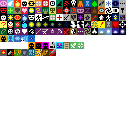
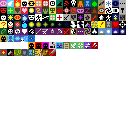
0.8.7.1更新预备

Changed region(s): [[0.6562, 0.3101, 0.7812, 0.4031]]

diff --git a/core/src/main/java/com/shatteredpixel/shatteredpixeldungeon/ui/changelist/mlpd/vM0_7_X_Changes.java b/core/src/main/java/com/shatteredpixel/shatteredpixeldungeon/ui/changelist/mlpd/vM0_7_X_Changes.java
@@ -140,14 +140,14 @@ public class vM0_7_X_Changes {
                 ("辉梦魔绫Eula协议已实装，进入即可阅览具体说明。")));
 
         changes.addButton(new ChangeButton(new Image("firebase/FireBase.png",0,0,16,16), ("FireBase游戏数据收集"),
-                ("收集一些基本游戏数据，供开发者日后通过数据分析，仅在安卓端有效。")));
+                ("收集一些基本游戏数据，供开发者日后通过数据分析，仅在安卓端有效。\n\n同时庆祝该一历史性时刻，0层商人领主处赠送时装自选凭证。")));
 
         changes = new ChangeInfo(Messages.get(ChangesScene.class, "buffs"), false, null);
         changes.hardlight(Window.GREEN_COLOR);
         changeInfos.add(changes);
 
         changes.addButton(new ChangeButton(new ItemSprite(ItemSpriteSheet.HIGHTWAND_1), "法杖加强",
-                "冲击：伤害成长由1-3上调至1.5-4\n\n腐化：腐化时长由6+等级*3上调为6+等级*4，使拥有精英buff的敌人可以被腐化而非定命\n\n解离：伤害成长由1-4上调至1-5，穿透固体方块的增伤需求由穿透3个加强为穿透2个，无视减伤\n\n焰浪：伤害成长由1*充能-2*充能上调至2*充能-3*充能\n\n磷火：高充能给予的残废与麻痹效果回合数增加1\n\n冰霜：伤害成长由1-5上调至1-6，至多衰减30%的伤害\n\n雷霆：伤害成长由1-5上调至1-6\n\n大雷：对自身的伤害降低至25%\n\n土块：伤害成长由1-2上调至1-3，守卫的生命值由16+8*等级上升为16+12*等级，守卫具有等同于法杖等级百分比的减伤\n\n魔弹：在释放魔弹法杖后，下一次非魔弹法杖释放不消耗回合，这个效果持续5回合\n\n棱光：伤害成长由1-3上调至1.5-4，对亡灵和恶魔的额外伤害上升为50%，+5及以上必定失明\n\n注魂：护盾量由5+等级上升为5+1.5*等级\n\n哨卫：伤害成长由1-4上调至2-5\n\n毒杖：和酸蚀一样会慢慢叠加伤害"));
+                "冲击：伤害成长由1-3上调至1.5-4\n\n腐化：腐化时长由6+等级*3上调为6+等级*4，使拥有精英buff的敌人可以被腐化而非定命\n\n解离：伤害成长由1-4上调至1-5，穿透固体方块的增伤需求由穿透3个加强为穿透2个，无视减伤\n\n焰浪：伤害成长由1*充能-2*充能上调至2*充能-3*充能\n\n磷火：高充能给予的残废与麻痹效果回合数增加1\n\n冰霜：伤害成长由1-5上调至1-6，至多衰减30%的伤害\n\n雷霆：伤害成长由1-5上调至1-6\n\n大雷：对自身的伤害降低至25%\n\n土块：伤害成长由1-2上调至1-3，守卫的生命值由16+8*等级上升为16+12*等级，守卫具有等同于法杖等级百分比的减伤\n\n魔弹：在释放魔弹法杖后，下一次非魔弹法杖释放不消耗回合，这个效果持续5回合\n\n棱光：伤害成长由1-3上调至1.5-4，对亡灵和恶魔的额外伤害上升为50%，+5及以上必定失明\n\n注魂：护盾量由5+等级上升为5+1.5*等级\n\n哨卫：伤害成长由1-4上调至2-5"));
 
         changes = new ChangeInfo(Messages.get(ChangesScene.class, "changes"), false, null);
         changes.hardlight(CharSprite.WARNING);
@@ -157,6 +157,14 @@ public class vM0_7_X_Changes {
                 "魔绫像素地牢-修复内容：\n\n" +
                         (       "_-_ 修复瓶装怨灵的闪退，以及优化该藏品\n" +
                                 "_-_ 修复武甲背包会被爆炸波及")));
+
+        changes = new ChangeInfo(Messages.get(ChangesScene.class, "nerfs"), false, null);
+        changes.hardlight(Window.R_COLOR);
+        changeInfos.add(changes);
+
+        changes.addButton( new ChangeButton(new BuffIcon(BuffIndicator.CORRUPT, true), "敌法精英",
+                "敌法精英拥有 25% 的伤害减免，且对于法术伤害拥有额外50%的伤害减免。"));
+
 
         changes = new ChangeInfo("v0.8.7.1中测验收通过，予以更新", true, null);
         changes.hardlight(Window.CYELLOW);

diff --git a/core/src/main/java/com/shatteredpixel/shatteredpixeldungeon/actors/hero/Hero.java b/core/src/main/java/com/shatteredpixel/shatteredpixeldungeon/actors/hero/Hero.java
@@ -114,6 +114,7 @@ import com.shatteredpixel.shatteredpixeldungeon.actors.buffs.Nyctophobia;
 import com.shatteredpixel.shatteredpixeldungeon.actors.buffs.Paralysis;
 import com.shatteredpixel.shatteredpixeldungeon.actors.buffs.PhysicalEmpower;
 import com.shatteredpixel.shatteredpixeldungeon.actors.buffs.Poison;
+import com.shatteredpixel.shatteredpixeldungeon.actors.buffs.PropBuff;
 import com.shatteredpixel.shatteredpixeldungeon.actors.buffs.Recharging;
 import com.shatteredpixel.shatteredpixeldungeon.actors.buffs.Regeneration;
 import com.shatteredpixel.shatteredpixeldungeon.actors.buffs.RoseShiled;
@@ -194,6 +195,7 @@ import com.shatteredpixel.shatteredpixeldungeon.items.props.EmotionalAggregation
 import com.shatteredpixel.shatteredpixeldungeon.items.props.HeartOfCrystalFractal;
 import com.shatteredpixel.shatteredpixeldungeon.items.props.Monocular;
 import com.shatteredpixel.shatteredpixeldungeon.items.props.PortableWhetstone;
+import com.shatteredpixel.shatteredpixeldungeon.items.props.Prop;
 import com.shatteredpixel.shatteredpixeldungeon.items.props.StarSachet;
 import com.shatteredpixel.shatteredpixeldungeon.items.props.TerrorDoll;
 import com.shatteredpixel.shatteredpixeldungeon.items.props.TerrorDollB;
@@ -639,9 +641,10 @@ public class Hero extends Char {
 			Buff.affect(this, QuestGold.class).set((100), 1);
 		}
 
-//		if (Dungeon.isChallenged(Challenges.BLOOD_DIED) && Dungeon.depth>2){
-//			Buff.affect(this, BloodLoss.class);
-//		}
+		ArrayList<Prop> AllProps = hero.belongings.getAllItems(Prop.class);
+		if(AllProps!=null){
+			Buff.affect(Dungeon.hero, PropBuff.class);
+		}
 
 		if(HelpSettings()) {
 			Buff.affect(this, GameTracker.class);

diff --git a/core/src/main/java/com/shatteredpixel/shatteredpixeldungeon/actors/buffs/AbundantMagic.java b/core/src/main/java/com/shatteredpixel/shatteredpixeldungeon/actors/buffs/AbundantMagic.java
@@ -1,53 +1,19 @@
 package com.shatteredpixel.shatteredpixeldungeon.actors.buffs;
 
-import static com.shatteredpixel.shatteredpixeldungeon.Dungeon.hero;
-
-import com.shatteredpixel.shatteredpixeldungeon.messages.Messages;
 import com.shatteredpixel.shatteredpixeldungeon.ui.BuffIndicator;
-import com.watabou.utils.Bundle;
 
-public class AbundantMagic extends Buff{
-
-    public float duration = 5f;
-
+public class AbundantMagic extends FlavourBuff{
+    public static final float DURATION	= 5f;
     {
         type = buffType.POSITIVE;
     }
 
     @Override
-    public boolean act() {
-
-        spend(1f);
-
-        duration--;
-
-        if (duration <= 0) detach();
-
-        return super.act();
-    }
-
-    @Override
     public int icon() {
-        return BuffIndicator.PARALYSIS;
+        return BuffIndicator.WAND_MAGIC;
     }
-
     @Override
-    public String desc() {
-        return Messages.get(AbundantMagic.class,"desc",duration);
+    public float iconFadePercent() {
+        return Math.max(0, (DURATION - visualcooldown()) / DURATION);
     }
-
-    public static final String DURATION = "duration";
-
-    @Override
-    public void storeInBundle( Bundle bundle ) {
-        super.storeInBundle( bundle );
-        bundle.put( DURATION, duration );
-    }
-
-    @Override
-    public void restoreFromBundle( Bundle bundle ) {
-        super.restoreFromBundle( bundle );
-        duration = bundle.getFloat( DURATION );
-    }
-
 }

diff --git a/core/src/main/java/com/shatteredpixel/shatteredpixeldungeon/items/wands/WandOfMagicMissile.java b/core/src/main/java/com/shatteredpixel/shatteredpixeldungeon/items/wands/WandOfMagicMissile.java
@@ -64,9 +64,7 @@ public class WandOfMagicMissile extends DamageWand {
 			ch.damage(damageRoll(), this);
 
 			if(curUser.buff(AbundantMagic.class)== null){
-				Buff.append(curUser, AbundantMagic.class);
-			}else{
-				curUser.buff(AbundantMagic.class).duration =5f;
+				Buff.append(curUser, AbundantMagic.class,5f);
 			}
 
 			Sample.INSTANCE.play( Assets.Sounds.HIT_MAGIC, 1, Random.Float(0.87f, 1.15f) );

diff --git a/core/src/main/java/com/shatteredpixel/shatteredpixeldungeon/ui/BuffIndicator.java b/core/src/main/java/com/shatteredpixel/shatteredpixeldungeon/ui/BuffIndicator.java
@@ -169,6 +169,9 @@ public class BuffIndicator extends Component {
 	public static final int KILLER        = 118;
 	public static final int GOODLUCK        = 119;
 
+	public static final int PROP_SHADOW = 120;
+	public static final int WAND_MAGIC = 121;
+
 
     public static final int SIZE_SMALL = 7;
     public static final int SIZE_LARGE = 16;

diff --git a/core/src/main/java/com/shatteredpixel/shatteredpixeldungeon/actors/buffs/PropBuff.java b/core/src/main/java/com/shatteredpixel/shatteredpixeldungeon/actors/buffs/PropBuff.java
@@ -119,7 +119,7 @@ public class PropBuff extends Buff{
 
     @Override
     public int icon() {
-        return BuffIndicator.BARKSKIN;
+        return BuffIndicator.PROP_SHADOW;
     }
 
     private static final String TIMEA = "timeA";
